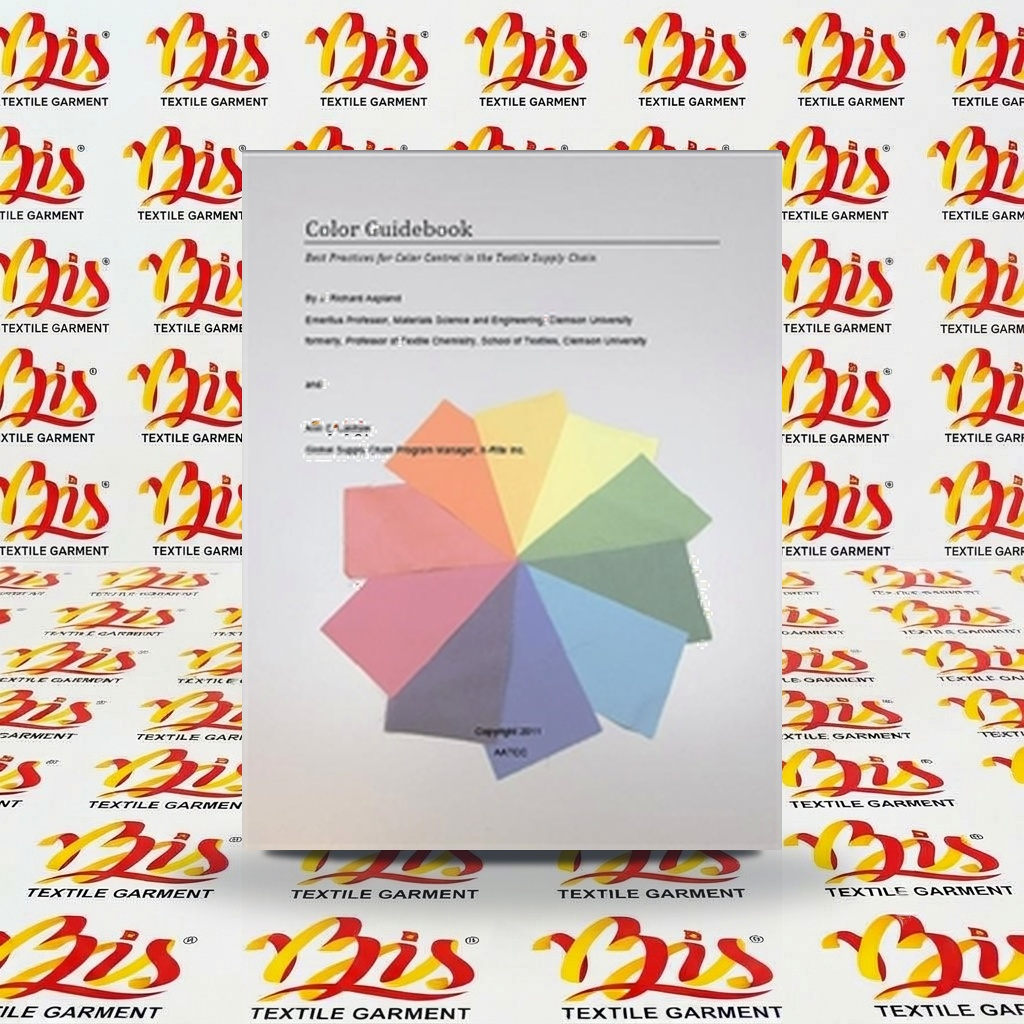
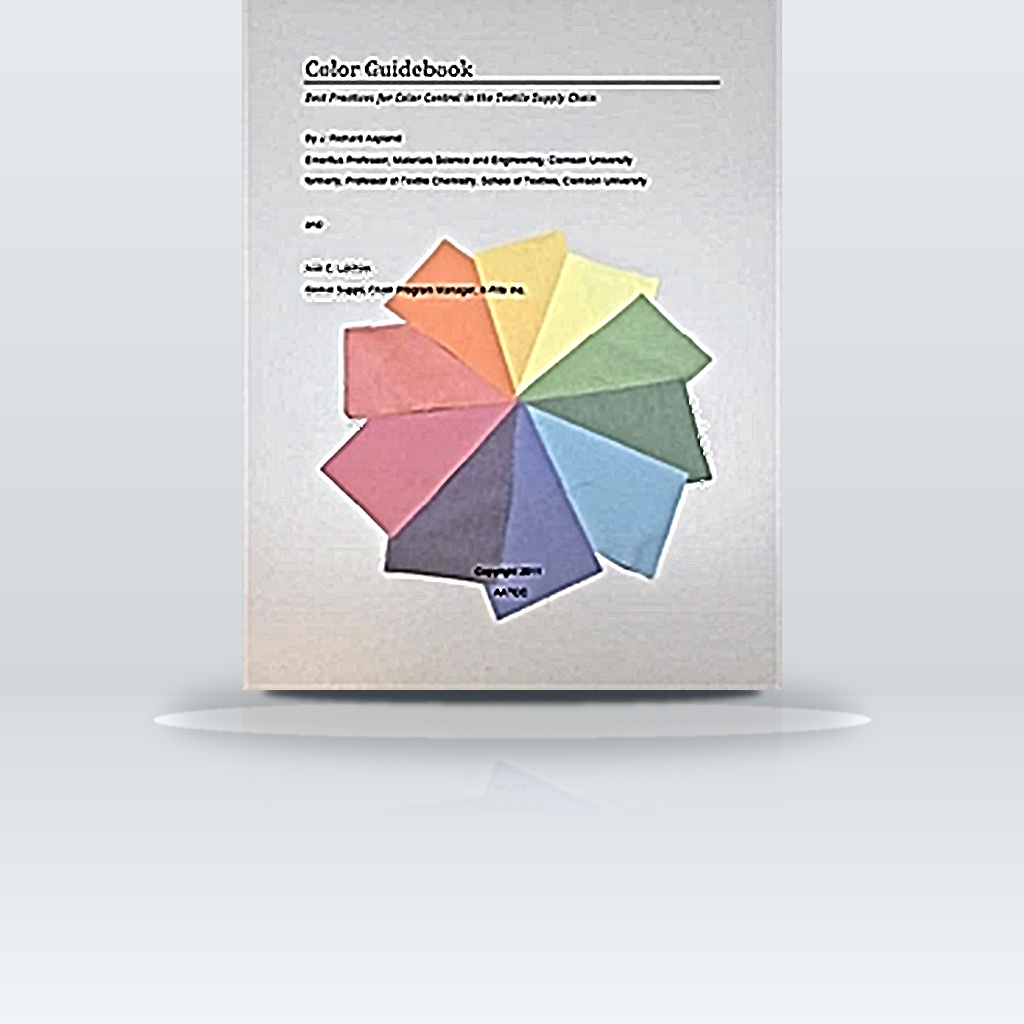
feat(media): add AI Super-Resolution unsharp masking filter and clarity slider for crisp product text

diff --git a/BIS_AI_PROJECT/agent_media.py b/BIS_AI_PROJECT/agent_media.py
@@ -612,7 +612,8 @@ class AgentMedia:
         pos_x: int,
         pos_y: int,
         shadow_density: float = 0.80,
-        enable_reflection: bool = True
+        enable_reflection: bool = True,
+        sharpness_boost: float = 1.8
     ) -> Image.Image:
         """
         Hệ thống đổ bóng vật lý đa tầng và phản xạ mờ mặt sàn (Physics-based Contact Shadow):
@@ -790,6 +791,56 @@ class AgentMedia:
                     
         return im
 
+    def enhance_sharpness_and_clarity(self, prod_rgba: Image.Image, sharpness_boost: float = 1.8) -> Image.Image:
+        """
+        Bộ lọc AI Super-Resolution & Edge Contrast Unsharp Masking chuyên dụng cho ảnh sản phẩm / sách scan:
+        - Tự động khử nhiễu vi hạt bằng cv2.bilateralFilter giữ nguyên sắc cạnh viền.
+        - Khôi phục độ sắc nét và tương phản cục bộ của chữ (Typography clarity) bằng Unsharp Masking & cv2.detailEnhance.
+        - Giúp văn bản, hoa văn, logo và bìa sách đạt độ nét căng bóng thương mại ngay cả khi nguồn vào là thumbnail độ phân giải thấp (250px).
+        """
+        import cv2
+        import numpy as np
+
+        if sharpness_boost <= 1.0:
+            return ImageEnhance.Sharpness(prod_rgba).enhance(sharpness_boost)
+
+        # Tách kênh màu RGB và Alpha
+        rgba = prod_rgba.convert("RGBA")
+        r, g, b, a = rgba.split()
+        rgb_img = Image.merge("RGB", (r, g, b))
+        
+        # Chuyển đổi sang BGR cho OpenCV
+        bgr = cv2.cvtColor(np.array(rgb_img), cv2.COLOR_RGB2BGR)
+
+        # 1. Khử nhiễu hạt nền nhưng bảo toàn triệt để cạnh sắc
+        denoised = cv2.bilateralFilter(bgr, d=5, sigmaColor=35, sigmaSpace=35)
+
+        # 2. Unsharp Masking tăng cường tần số cao (High-pass boost cho chữ và chi tiết)
+        # Hệ số weight tăng dần theo sharpness_boost (ví dụ boost=1.8 -> weight=2.2)
+        weight = float(np.clip(1.0 + (sharpness_boost - 1.0) * 1.5, 1.2, 2.8))
+        neg_weight = -(weight - 1.0)
+        gaussian = cv2.GaussianBlur(denoised, (0, 0), sigmaX=2.5)
+        unsharp = cv2.addWeighted(denoised, weight, gaussian, neg_weight, 0)
+
+        # 3. Tăng cường chi tiết vi cấu trúc chữ bằng cv2.detailEnhance
+        try:
+            enhanced_cv = cv2.detailEnhance(unsharp, sigma_s=8, sigma_r=0.18)
+        except Exception:
+            enhanced_cv = unsharp
+
+        # Chuyển lại về Pillow RGB
+        rgb_enhanced = cv2.cvtColor(enhanced_cv, cv2.COLOR_BGR2RGB)
+        pil_enhanced = Image.fromarray(rgb_enhanced)
+
+        # 4. Tinh chỉnh nhẹ độ tương phản và độ nét Pillow
+        pil_enhanced = ImageEnhance.Contrast(pil_enhanced).enhance(1.08)
+        pil_enhanced = ImageEnhance.Sharpness(pil_enhanced).enhance(min(2.0, 1.0 + (sharpness_boost - 1.0) * 0.4))
+
+        # Ghép lại với kênh Alpha gốc
+        enhanced_rgba = pil_enhanced.convert("RGBA")
+        enhanced_rgba.putalpha(a)
+        return enhanced_rgba
+
     def render_3d_product_mockup(self, prod_img: Image.Image, target_height: int = 540) -> Image.Image:
         """Tách nền thông minh và tăng cường khối 2.5D cho máy móc thiết bị."""
         prod = prod_img.convert("RGBA")
@@ -895,7 +946,8 @@ class AgentMedia:
                     horizon_y=550,
                     depth_ratio=0.20,
                     shadow_density=0.85,
-                    enable_reflection=True
+                    enable_reflection=True,
+                    sharpness_boost=1.8
                 )
         except Exception as err:
             print(f"⚠ Lỗi chế độ AI Hybrid Studio: {err}")
@@ -911,7 +963,8 @@ class AgentMedia:
         horizon_y: int = 550,
         depth_ratio: float = 0.20,
         shadow_density: float = 0.80,
-        enable_reflection: bool = True
+        enable_reflection: bool = True,
+        sharpness_boost: float = 1.8
     ) -> Path:
         """
         AI Ghép nền Studio chuẩn thương mại điện tử (chuẩn như catalogue quốc tế):
@@ -965,6 +1018,10 @@ class AgentMedia:
                 target_h = int(prod_rgba.size[1] * (target_w / prod_rgba.size[0]))
             rendered_obj = prod_rgba.resize((target_w, target_h), Image.Resampling.LANCZOS)
 
+        # Tăng cường độ nét AI Super-Resolution & tương phản viền chữ
+        if sharpness_boost > 1.0:
+            rendered_obj = self.enhance_sharpness_and_clarity(rendered_obj, sharpness_boost=sharpness_boost)
+
         obj_w, obj_h = rendered_obj.size
         pos_x = (1024 - obj_w) // 2
         pos_y = ground_baseline - obj_h
@@ -996,6 +1053,7 @@ class AgentMedia:
             "horizon_y": horizon_y,
             "depth_ratio": depth_ratio,
             "shadow_density": shadow_density,
+            "sharpness_boost": sharpness_boost,
             "final_image": str(final_path),
             "updated_at": time.strftime("%Y-%m-%d %H:%M:%S")
         }

diff --git a/BIS_AI_PROJECT/app_ui.py b/BIS_AI_PROJECT/app_ui.py
@@ -2560,6 +2560,7 @@ with tab_media:
                     key=f"depth_{clean_sku}",
                     help="Độ mở góc của mặt sàn trải dài về phía người nhìn (Mặc định: 20%)"
                 )
+                sharpness_boost = st.slider("Độ nét & Làm rõ chữ AI (Sharpness & Text Clarity)", min_value=1.0, max_value=3.0, value=1.8, step=0.1, key=f"sharp_{clean_sku}", help="Khử mờ, tăng độ sắc nét chữ cho ảnh scan bìa sách / ảnh độ phân giải thấp (250px)")
                 enable_refl = st.checkbox(
                     "Hiệu ứng phản xạ mờ mặt sàn (Subtle Floor Reflection)", 
                     value=True,
@@ -2620,7 +2621,8 @@ with tab_media:
                             horizon_y=horizon_y,
                             depth_ratio=depth_ratio_pct / 100.0,
                             shadow_density=shadow_density_pct / 100.0,
-                            enable_reflection=enable_refl
+                            enable_reflection=enable_refl,
+                            sharpness_boost=sharpness_boost
                         )
                         st.success(f"✓ Đã render hoàn tất: {final_path.name}")
                         st.rerun()
